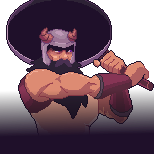
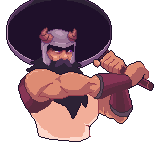
CRT effect test

diff --git a/core/src/main/java/com/watabou/pixeldungeon/scenes/GameScene.java b/core/src/main/java/com/watabou/pixeldungeon/scenes/GameScene.java
@@ -23,6 +23,7 @@ import java.util.ArrayList;
 import com.watabou.noosa.Camera;
 import com.watabou.noosa.Game;
 import com.watabou.noosa.Group;
+import com.watabou.noosa.Image;
 import com.watabou.noosa.SkinnedBlock;
 import com.watabou.noosa.Visual;
 import com.watabou.noosa.audio.Sample;
@@ -73,6 +74,7 @@ import com.watabou.pixeldungeon.windows.WndBag.Mode;
 import com.watabou.pixeldungeon.windows.WndGame;
 import com.watabou.pixeldungeon.windows.WndBag;
 import com.watabou.pixeldungeon.windows.WndStory;
+import com.watabou.utils.PointF;
 import com.watabou.utils.Random;
 
 public class GameScene extends PixelScene {
@@ -310,6 +312,7 @@ public class GameScene extends PixelScene {
 
 			fadeIn();
 		}
+		AddCRTfilter();
 	}
 	
 	public void destroy() {
@@ -433,6 +436,18 @@ public class GameScene extends PixelScene {
 		banner.y = align( uiCamera, (uiCamera.height - banner.height) / 3 );
 		add( banner );
 	}
+
+	private void AddCRTfilter(){
+		int w = Camera.main.width;
+		int h = Camera.main.height;
+
+		SkinnedBlock arcsBg = new SkinnedBlock( 1, 1, Assets.FILTER );
+		arcsBg.camera = uiCamera;
+		arcsBg.autoAdjust = true;
+		arcsBg.size( w, h );
+
+		add( arcsBg );
+	}
 	
 	// -------------------------------------------------------
 	
@@ -548,21 +563,11 @@ public class GameScene extends PixelScene {
 		scene.fadeIn( 0xFF000000 | color, true );
 	}
 
-	/*
-	public static void gameOver() {
-		Banner gameOver = new Banner( BannerSprites.get( BannerSprites.Type.GAME_OVER ) );
-		gameOver.show( 0x000000, 1f );
-		scene.showBanner( gameOver );
-		
-		Sample.INSTANCE.play( Assets.SND_DEATH );
-	}
-	 */
-
 	public static void gameOver() {
 		if (scene == null) return;
 
 		Banner gameOverBanner = new Banner( BannerSprites.get( BannerSprites.Type.GAME_OVER ) );
-		gameOverBanner.show( 0x000000, 2f );
+		gameOverBanner.show( 0x000000, 1f );
 		scene.showBanner( gameOverBanner );
 
 		RedButton btnRestart = new RedButton( TXT_START ){

diff --git a/core/src/main/java/com/watabou/pixeldungeon/Assets.java b/core/src/main/java/com/watabou/pixeldungeon/Assets.java
@@ -22,7 +22,9 @@ public class Assets {
 	public static final String ARCS_BG		= "arcs1.png";
 	public static final String ARCS_FG		= "arcs2.png";
 	public static final String DASHBOARD	= "dashboard.png";
-	
+	public static final String FILTER	= "filter.png";
+	public static final String VIGNETE	= "vignete.png";
+
 	public static final String BANNERS	= "banners.png";
 	public static final String BADGES	= "badges.png";
 	public static final String LOCKED	= "locked_badge.png";
@@ -41,10 +43,12 @@ public class Assets {
 	public static final String ROGUE	= "rogue.png";
 	public static final String HUNTRESS	= "ranger.png";
 	public static final String AVATARS	= "avatars.png";
+	public static final String FADEBG	= "fade.png";
 	public static final String SPLASH_warrior	= "spw.png";
 	public static final String SPLASH_rogue	= "spr.png";
 	public static final String SPLASH_mage	= "spm.png";
 	public static final String SPLASH_huntress = "sph.png";
+	public static final String SPLASH_beast = "spb.png";
 	public static final String PORTRAIT_warrior	= "PORTRAIT_WARRIOR.png";
 	public static final String PORTRAIT_rogue	= "PORTRAIT_ROGUE.png";
 	public static final String PORTRAIT_mage	= "PORTRAIT_MAGE.png";

diff --git a/core/src/main/java/com/watabou/pixeldungeon/scenes/StartScene.java b/core/src/main/java/com/watabou/pixeldungeon/scenes/StartScene.java
@@ -79,6 +79,7 @@ public class StartScene extends PixelScene {
 	private Group unlock;
 	public static HeroClass curClass;
 	public Image splash;
+	public Image fadebg;
 	BitmapText heroNameText = PixelScene.createText(9 );
 
 	@Override
@@ -115,6 +116,13 @@ public class StartScene extends PixelScene {
 		splash.x = align((w - 154) / 2);
 		splash.y = align(title.y + 24);
 		add(splash);
+
+		int thirdOfScreenHeight = h / 2;
+		fadebg = new Image( Assets.FADEBG );
+		fadebg.frame(0,0,w,thirdOfScreenHeight);
+		fadebg.x = 0;
+		fadebg.y = h - thirdOfScreenHeight;
+		add(fadebg);
 
 		buttonX = left;
 		buttonY = h - bottomPadding - BUTTON_HEIGHT;
